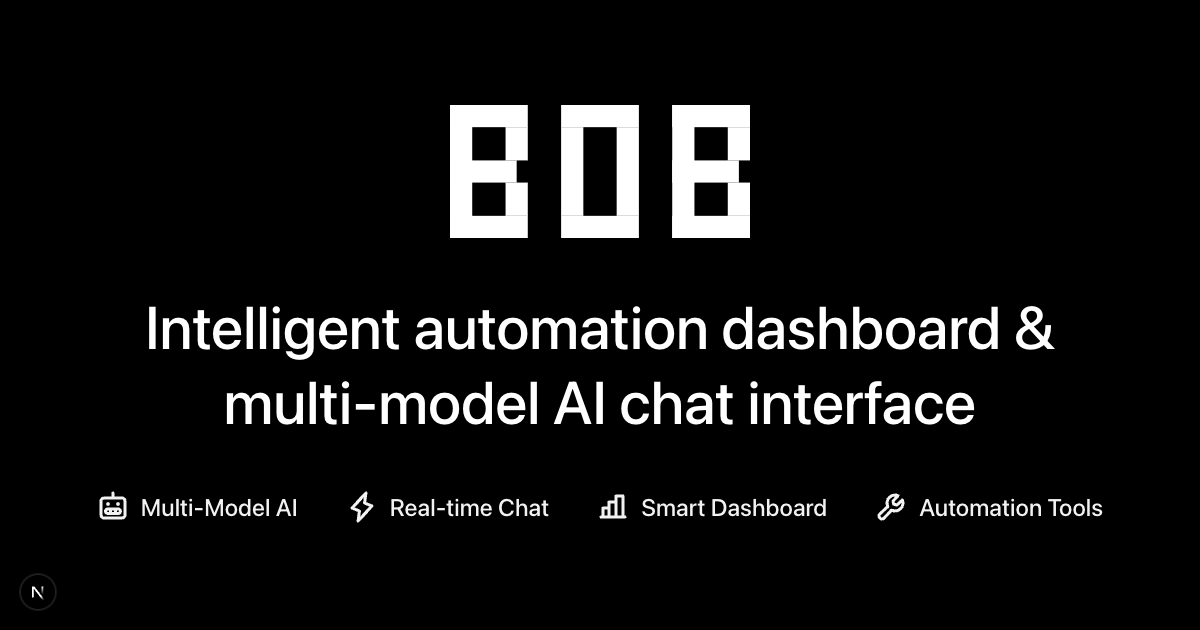
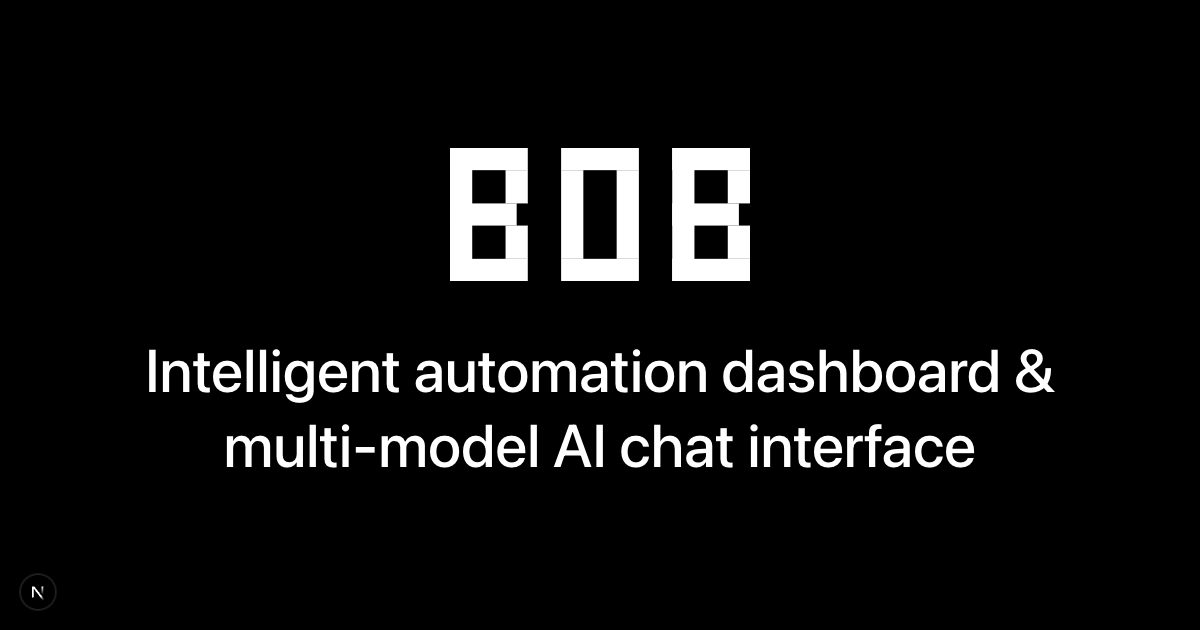
fix: Update CI workflows to use npm and fix TypeScript errors
- Change GitHub Actions workflows from pnpm to npm
- Add package-lock.json for reproducible builds
- Fix TypeScript errors in cover page component by properly typing DOM elements
- Remove feature icons from cover page for cleaner design
- Clean up imports and simplify cover page layout

All builds and type checks now pass locally.

🤖 Generated with [Claude Code](https://claude.ai/code)

diff --git a/app/cover/page.tsx b/app/cover/page.tsx
@@ -1,7 +1,6 @@
 "use client"
 
 import { Logo } from "@/components/ui/logo"
-import { Robot, Lightning, ChartBar, Wrench } from "@phosphor-icons/react"
 import { useEffect } from "react"
 
 export default function CoverPage() {
@@ -69,15 +68,17 @@ export default function CoverPage() {
     const hideDevElements = () => {
       // Hide all buttons and dev indicators
       document.querySelectorAll('button, [class*="nextjs"], [data-nextjs], [style*="position: fixed"]').forEach(el => {
-        el.style.display = 'none !important'
-        el.style.visibility = 'hidden !important'
+        const htmlEl = el as HTMLElement
+        htmlEl.style.display = 'none'
+        htmlEl.style.visibility = 'hidden'
         el.remove()
       })
 
       // Specifically target the N indicator
       document.querySelectorAll('*').forEach(el => {
+        const htmlEl = el as HTMLElement
         if (el.textContent?.trim() === 'N' &&
-            (el.style.position === 'fixed' || el.style.position === 'absolute')) {
+            (htmlEl.style.position === 'fixed' || htmlEl.style.position === 'absolute')) {
           el.remove()
         }
       })
@@ -107,29 +108,6 @@ export default function CoverPage() {
         <h1 className="text-[clamp(2rem,5vw,4rem)] font-medium text-center leading-tight max-w-[80vw]">
           Intelligent automation dashboard & multi-model AI chat interface
         </h1>
-
-        {/* Features */}
-        <div className="flex flex-wrap items-center justify-center gap-[4vw] text-[clamp(1rem,2vw,1.5rem)] font-medium opacity-95">
-          <div className="flex items-center gap-[1vw]">
-            <Robot weight="bold" className="text-white feature-icon" />
-            <span>Multi-Model AI</span>
-          </div>
-
-          <div className="flex items-center gap-[1vw]">
-            <Lightning weight="bold" className="text-white feature-icon" />
-            <span>Real-time Chat</span>
-          </div>
-
-          <div className="flex items-center gap-[1vw]">
-            <ChartBar weight="bold" className="text-white feature-icon" />
-            <span>Smart Dashboard</span>
-          </div>
-
-          <div className="flex items-center gap-[1vw]">
-            <Wrench weight="bold" className="text-white feature-icon" />
-            <span>Automation Tools</span>
-          </div>
-        </div>
       </div>
     </div>
   )

diff --git a/README.md b/README.md
@@ -1,242 +1,121 @@
-# Bob by Newth.ai
+# Bob
+
+**Intelligent automation dashboard with multi-model AI chat**
 
 [bob.newth.ai](https://bob.newth.ai)
 
-**Bob** is an intelligent automation dashboard and open-source chat interface supporting multiple AI models with advanced features like file uploads, authentication, and local model support.
+Bob delivers complete control over your AI interactions through a self-hosted dashboard that works with any AI model—from cloud providers to local instances running on your hardware.
 
 ![Bob dashboard](./public/cover_bob.png)
 
-## ✨ Features
+## Why Bob
 
-### 🤖 Multi-Model AI Support
-- **Cloud Models**: OpenAI, Anthropic Claude, Google Gemini, Mistral, xAI Grok, Perplexity
-- **Local Models**: Ollama with automatic model detection
-- **BYOK Support**: Bring your own API keys via OpenRouter
-- **Model Switching**: Seamless switching between providers in conversations
+**Own Your AI Infrastructure**
+Run everything on your own servers. Your conversations, files, and data never leave your control. Built for teams and individuals who need privacy without compromising functionality.
 
-### 🎨 Modern Interface
-- **Responsive Design**: Works on desktop, tablet, and mobile
-- **Theme Support**: Light/dark themes with system preference detection
-- **Customizable Layouts**: Multiple chat layout options
-- **shadcn/ui Components**: Beautiful, accessible UI components
+**Multi-Model Flexibility**
+Switch seamlessly between OpenAI, Anthropic Claude, Google Gemini, Mistral, xAI Grok, Perplexity, and local models via Ollama. No vendor lock-in. Use your own API keys or run models locally.
 
-### 📁 Advanced Features
-- **File Uploads**: Support for documents, images, and various file types
-- **Authentication**: Supabase-powered auth with Google OAuth
-- **Data Persistence**: Chat history and user preferences
-- **Real-time Updates**: Live chat synchronization
-- **MCP Integration**: Model Context Protocol support (in development)
+**Professional Interface**
+Clean, responsive design built with modern React components. Dark/light themes, customizable layouts, file uploads, and real-time synchronization. Designed for daily professional use.
 
-### 🔒 Self-Hostable & Secure
-- **Open Source**: Apache 2.0 license
-- **Self-Hosting**: Complete Docker setup included
-- **Environment Isolation**: Secure environment variable handling
-- **Privacy First**: Your data stays in your infrastructure
+**Enterprise-Ready Architecture**
+Built on Next.js 15 with TypeScript. Supabase backend for authentication and data persistence when needed. Comprehensive testing with Vitest and Playwright. Docker-first deployment.
 
-## 🚀 Quick Start
+## Getting Started
 
-### Option 1: Cloud Models (Fastest)
+Clone and run locally with your preferred AI models:
 
 ```bash
 git clone https://github.com/n3wth/bob.git
 cd bob
 npm install
 cp .env.example .env.local
-# Add your API keys to .env.local
+```
+
+Add your API keys to `.env.local`:
+```bash
+# Choose one or more AI providers
+OPENAI_API_KEY=sk-...
+ANTHROPIC_API_KEY=sk-ant-...
+GOOGLE_GENERATIVE_AI_API_KEY=...
+
+# Security keys (required)
+CSRF_SECRET=$(openssl rand -hex 16)
+ENCRYPTION_KEY=$(openssl rand -base64 32)
+```
+
+Start the development server:
+```bash
 npm run dev
 ```
 
-Open [http://localhost:3000](http://localhost:3000) and start chatting!
+Open [http://localhost:3000](http://localhost:3000) and start chatting.
 
-### Option 2: Local AI with Ollama
+### Local AI with Ollama
+
+For complete independence from cloud providers:
 
 ```bash
 # Install Ollama
 curl -fsSL https://ollama.ai/install.sh | sh
-ollama pull llama3.2  # or your preferred model
+ollama pull llama3.2
 
-# Setup Bob
-git clone https://github.com/n3wth/bob.git
-cd bob
-npm install
+# Bob will auto-detect your local models
 npm run dev
 ```
 
-Bob will automatically detect your local Ollama models!
+### Full Stack Development
 
-### Option 3: Full Stack with Docker
+For advanced features including authentication, file uploads, and persistent chat history:
 
 ```bash
-git clone https://github.com/n3wth/bob.git
-cd bob
 cp .env.example .env.local
-# Configure environment variables
+# Configure Supabase variables in .env.local
 docker-compose -f docker-compose.dev.yml up
 ```
 
-This includes:
-- Next.js app with hot reload
-- Local Supabase instance
-- PostgreSQL database
-- File storage
+Includes PostgreSQL database, file storage, and hot reload.
 
-### Option 4: Production Docker
+## Architecture
 
-```bash
-git clone https://github.com/n3wth/bob.git
-cd bob
-docker-compose up
-```
+**Frontend**: Next.js 15 with TypeScript and Tailwind CSS
+**UI Components**: shadcn/ui with Radix primitives
+**AI Integration**: Vercel AI SDK for unified provider interface
+**Backend**: Supabase for auth, database, and storage
+**Testing**: Vitest for units, Playwright for E2E
+**Deployment**: Docker with standalone output optimization
 
-## 🔧 Development
+The application is built with a local-first approach—core functionality works without external services. Authentication, file uploads, and chat persistence are optional features that enhance the experience when configured.
 
-### Prerequisites
-- Node.js 18+
-- npm or pnpm
-- Docker (optional, for full-stack development)
+## Development
 
-### Setup
-1. Clone the repository
-2. Install dependencies: `npm install`
-3. Copy environment file: `cp .env.example .env.local`
-4. Configure your API keys (see Configuration section)
-5. Start development server: `npm run dev`
+**Requirements**: Node.js 18+, npm or pnpm
 
-### Available Scripts
-- `npm run dev` - Start development server with Turbopack
-- `npm run build` - Build for production
-- `npm run start` - Start production server
-- `npm run lint` - Run ESLint
-- `npm run type-check` - TypeScript type checking
-- `npm run test` - Run unit tests
-- `npm run test:e2e` - Run Playwright E2E tests
+**Commands**:
+- `npm run dev` — Development server with Turbopack
+- `npm run build` — Production build
+- `npm run type-check` — TypeScript validation
+- `npm run lint` — Code linting
+- `npm run test` — Unit tests with Vitest
+- `npm run test:e2e` — End-to-end tests with Playwright
 
-### Testing
-- **Unit Tests**: Vitest + React Testing Library
-- **E2E Tests**: Playwright across multiple browsers
-- **Visual Testing**: Screenshot comparison tests
-- **Performance Tests**: Core Web Vitals monitoring
+**Testing Strategy**:
+Unit tests for components and utilities, E2E tests for critical user flows, visual regression testing for UI consistency, and performance monitoring for Core Web Vitals.
 
-## ⚙ Configuration
+## Deployment
 
-### Required Environment Variables
-```bash
-# Security (generate with provided commands)
-CSRF_SECRET=$(openssl rand -hex 16)
-ENCRYPTION_KEY=$(openssl rand -base64 32)
-
-# At least one AI provider
-OPENAI_API_KEY=sk-...
-ANTHROPIC_API_KEY=sk-ant-...
-GOOGLE_GENERATIVE_AI_API_KEY=...
-```
-
-### Full Stack Features (Optional)
-```bash
-# Supabase (for auth, file uploads, chat history)
-NEXT_PUBLIC_SUPABASE_URL=your-supabase-url
-NEXT_PUBLIC_SUPABASE_ANON_KEY=your-anon-key
-SUPABASE_SERVICE_ROLE=your-service-role-key
-
-# Google OAuth
-GOOGLE_CLIENT_ID=your-google-client-id
-GOOGLE_CLIENT_SECRET=your-google-client-secret
-```
-
-See `.env.example` for complete configuration options.
-
-## 📋 Deployment
-
-### One-Click Deploy
-[![Deploy with Vercel](https://vercel.com/button)](https://vercel.com/new/clone?repository-url=https://github.com/n3wth/bob)
-
-### Manual Deployment
-1. Build the application: `npm run build`
-2. Set production environment variables
-3. Deploy to your preferred platform (Vercel, Railway, DigitalOcean, etc.)
-
-### Docker Production
+**Docker Production**:
 ```bash
 docker-compose up
 ```
 
-### Supabase Setup
-If using authentication and file uploads:
-1. Create a Supabase project
-2. Run the provided SQL migrations
-3. Configure OAuth providers
-4. Update environment variables
+**Manual Deployment**:
+Build with `npm run build` and deploy the `dist/` directory to any static hosting provider or Node.js environment.
 
-See the deployment guides in the `scripts/` directory for detailed instructions.
+**Configuration**:
+See `.env.example` for all environment variables. Minimum requirement is one AI provider API key and security keys for encryption.
 
-## 🛠 Built With
+## License
 
-### Core Framework
-- **[Next.js 15](https://nextjs.org/)** — React framework with App Router
-- **[TypeScript](https://www.typescriptlang.org/)** — Type-safe JavaScript
-- **[Tailwind CSS](https://tailwindcss.com/)** — Utility-first CSS framework
-
-### UI Components
-- **[shadcn/ui](https://ui.shadcn.com)** — Beautiful, accessible React components
-- **[Radix UI](https://radix-ui.com/)** — Low-level UI primitives
-- **[Lucide Icons](https://lucide.dev/)** — Beautiful & consistent icon pack
-- **[Framer Motion](https://framer.com/motion/)** — Motion library for React
-
-### AI Integration
-- **[Vercel AI SDK](https://sdk.vercel.ai/)** — Unified AI provider interface
-- **[prompt-kit](https://prompt-kit.com/)** — AI components and utilities
-
-### Backend & Database
-- **[Supabase](https://supabase.com/)** — Backend-as-a-Service (auth, database, storage)
-- **[PostgreSQL](https://postgresql.org/)** — Robust relational database
-- **[TanStack Query](https://tanstack.com/query)** — Data fetching and state management
-
-### Development & Testing
-- **[Vitest](https://vitest.dev/)** — Fast unit testing framework
-- **[Playwright](https://playwright.dev/)** — End-to-end testing
-- **[ESLint](https://eslint.org/)** — JavaScript linting
-- **[Docker](https://docker.com/)** — Containerization
-
-## 📖 Documentation
-
-- **[API Reference](./docs/api/)** — Complete API documentation
-- **[Deployment Guide](./scripts/)** — Production deployment instructions
-- **[Contributing Guide](./CONTRIBUTING.md)** — How to contribute
-- **[Worktree Development](./docs/WORKTREE_WORKFLOW.md)** — Parallel development workflow
-
-## 🤝 Contributing
-
-We welcome contributions! Please see our [Contributing Guide](./CONTRIBUTING.md) for details.
-
-### Development Workflow
-1. Fork the repository
-2. Create a feature branch: `git checkout -b feature/amazing-feature`
-3. Make your changes
-4. Run tests: `npm run test && npm run test:e2e`
-5. Submit a pull request
-
-### Code Style
-- TypeScript with strict mode
-- ESLint + Prettier for formatting
-- Conventional commits for commit messages
-
-## 📝 License
-
-Licensed under the Apache License 2.0. See [LICENSE](./LICENSE) for details.
-
-## 💎 Sponsors
-
-<a href="https://vercel.com/oss">
-  <img alt="Vercel OSS Program" src="https://vercel.com/oss/program-badge.svg" />
-</a>
-
-## 🔗 Links
-
-- **Website**: [bob.newth.ai](https://bob.newth.ai)
-- **Documentation**: [docs.bob.newth.ai](https://docs.bob.newth.ai)
-- **Discord**: [Join our community](https://discord.gg/newth-ai)
-- **Twitter**: [@newthai](https://twitter.com/newthai)
-
----
-
-**Note**: This is an active open-source project. The codebase is continuously evolving with new features and improvements.
+Apache License 2.0 - See [LICENSE](./LICENSE) for details.
